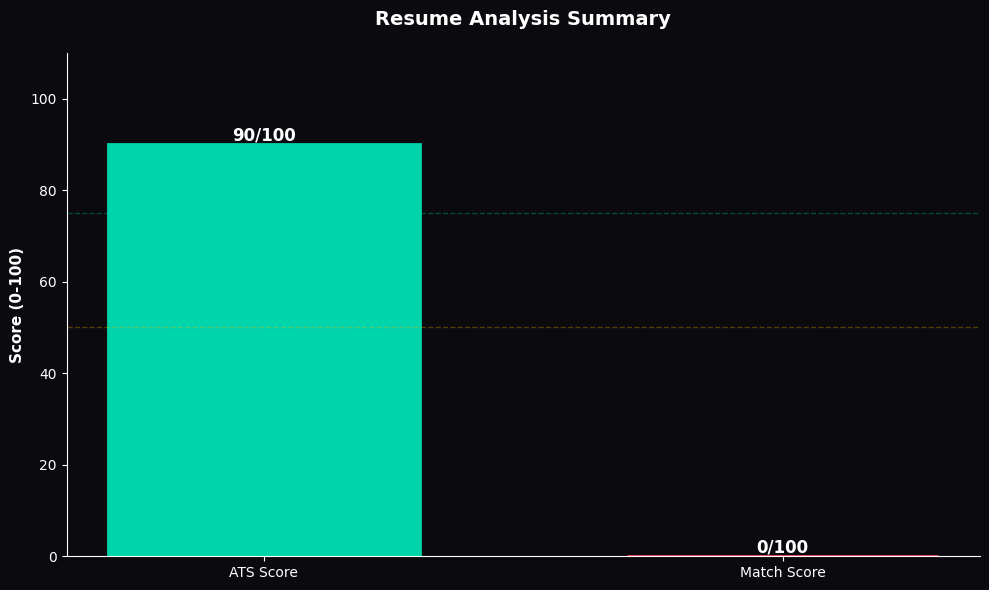
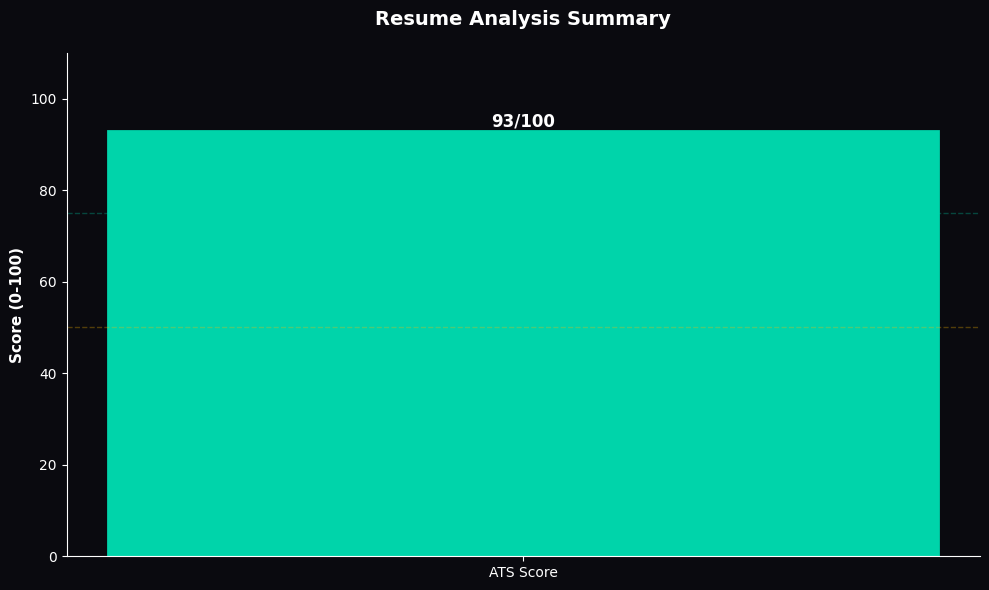
Updated the UI

diff --git a/app/static/css/style.css b/app/static/css/style.css
@@ -47,7 +47,9 @@
 html { scroll-behavior: smooth; }
 
 body {
-    background: var(--bg);
+    /* Use the base dark background with a very subtle vignette on the right
+       to match the reference image without strong teal/green overlays. */
+    background: radial-gradient(circle at 82% 8%, rgba(32, 46, 58, 0.06), transparent 22%), var(--bg);
     color: var(--text);
     font-family: var(--font-body);
     font-size: 15px;
@@ -95,12 +97,24 @@ body {
 .navbar__actions {
     display: flex;
     align-items: center;
-    gap: 0.9rem;
+    gap: 1rem;
+}
+
+.navbar__theme {
+    display: inline-flex;
+    align-items: center;
+    justify-content: center;
+    width: 22px;
+    height: 22px;
+    margin-right: 0.5rem;
+    color: #5f8ff2;
+    font-size: 0.95rem;
+    line-height: 1;
 }
 
 .navbar__link {
     text-decoration: none;
-    font-size: 0.85rem;
+    font-size: 0.95rem;
     font-weight: 500;
     color: var(--text-muted);
     transition: color 0.2s;
@@ -109,12 +123,13 @@ body {
 .navbar__link:hover { color: var(--text); }
 
 .navbar__user {
-    font-size: 0.85rem;
+    font-size: 0.95rem;
     font-weight: 500;
     color: var(--text-faint);
     border: 1px solid var(--border-light);
     border-radius: 999px;
     padding: 0.18rem 0.55rem;
+    margin-left: auto;
 }
 
 @media (max-width: 680px) {
@@ -122,7 +137,7 @@ body {
         padding: 0 1rem;
     }
     .navbar__actions {
-        gap: 0.55rem;
+        gap: 0.7rem;
     }
     .navbar__user {
         display: none;
@@ -131,10 +146,10 @@ body {
 
 .main-content {
     flex: 1;
-    max-width: 1080px;
+    max-width: 1200px;
     width: 100%;
     margin: 0 auto;
-    padding: 3rem 2rem 5rem;
+    padding: 1.5rem 2rem 5rem;
 }
 
 .footer {
@@ -146,86 +161,106 @@ body {
 }
 
 .hero {
-    text-align: center;
-    padding: 4rem 0 2.5rem;
-    max-width: 640px;
-    margin: 0 auto;
+    display: grid;
+    grid-template-columns: minmax(0, 1.05fr) minmax(360px, 0.95fr);
+    gap: 2rem;
+    align-items: center;
+    padding: 3.8rem 0 2.4rem;
+}
+
+.hero__copy {
+    text-align: left;
+}
+
+.hero__visual {
+    display: flex;
+    justify-content: center;
+    align-items: center;
 }
 
 .hero__badge {
-    display: inline-block;
-    font-size: 0.7rem;
+    display: inline-flex;
+    align-items: center;
+    font-size: 0.72rem;
     font-weight: 600;
     text-transform: uppercase;
-    letter-spacing: 0.13em;
-    color: var(--accent);
-    background: var(--accent-dim);
-    border: 1px solid var(--accent-border);
-    padding: 0.28rem 0.85rem;
+    letter-spacing: 0.16em;
+    color: #5f8ff2;
+    background: rgba(79, 142, 247, 0.08);
+    border: 1px solid rgba(79, 142, 247, 0.18);
+    padding: 0.4rem 0.95rem;
     border-radius: 999px;
-    margin-bottom: 1.4rem;
+    margin-bottom: 1.2rem;
 }
 
 .hero__title {
     font-family: var(--font-head);
-    font-size: clamp(1.9rem, 4.5vw, 2.8rem);
+    font-size: clamp(2.15rem, 3.8vw, 3.7rem);
     font-weight: 800;
     color: var(--text);
-    line-height: 1.15;
-    letter-spacing: -0.025em;
+    line-height: 1.02;
+    letter-spacing: -0.05em;
     margin-bottom: 1rem;
+    max-width: 13ch;
 }
 
-.hero__accent { color: var(--accent); }
+.hero__accent {
+    display: block;
+    color: var(--accent);
+    margin-top: 0.12em;
+}
 
 .hero__subtitle {
-    font-size: 0.97rem;
+    max-width: 40rem;
+    font-size: 0.98rem;
     color: var(--text-muted);
     line-height: 1.7;
-    margin-bottom: 2.2rem;
+    margin-bottom: 1.8rem;
 }
 
-.hero__stats {
+.hero__actions {
     display: flex;
     align-items: center;
-    justify-content: center;
-    gap: 1.5rem;
+    gap: 0.9rem;
     flex-wrap: wrap;
 }
 
-.stat { text-align: center; }
-
-.stat__number {
+.hero__image {
+    width: 100%;
+    max-width: 420px;
     display: block;
-    font-family: var(--font-head);
-    font-size: 1.35rem;
-    font-weight: 800;
-    color: var(--text);
-}
-
-.stat__label {
-    display: block;
-    font-size: 0.72rem;
-    color: var(--text-faint);
-    margin-top: 0.1rem;
-}
-
-.stat__divider {
-    width: 1px;
-    height: 28px;
-    background: var(--border-light);
+    border-radius: 22px;
+    box-shadow: 0 28px 60px rgba(0, 0, 0, 0.35);
+    border: 1px solid rgba(255,255,255,0.04);
 }
 
 .upload-section {
     display: grid;
-    grid-template-columns: 1fr 320px;
+    grid-template-columns: minmax(0, 1.35fr) minmax(280px, 0.8fr);
     gap: 1.8rem;
     align-items: start;
-    margin-top: 0.5rem;
+    margin-top: 0.6rem;
 }
 
 @media (max-width: 780px) {
+    .hero,
     .upload-section { grid-template-columns: 1fr; }
+
+    .hero__copy {
+        text-align: center;
+    }
+
+    .hero__title {
+        max-width: none;
+    }
+
+    .hero__actions {
+        justify-content: center;
+    }
+
+    .hero__image {
+        max-width: 100%;
+    }
 }
 
 .upload-card {

diff --git a/app/templates/index.html b/app/templates/index.html
@@ -3,35 +3,33 @@
 
 {% block content %}
 
-<section class="hero">
-    <div class="hero__badge">AI-Powered · Free · Instant Results</div>
-    <h1 class="hero__title">
-        Know exactly how your<br>
-        <span class="hero__accent">resume performs</span>
-    </h1>
-    <p class="hero__subtitle">
-        Upload your resume for an instant ATS score, skill extraction,
-        work experience detection, and optional job description matching.
-    </p>
-    <div class="hero__stats">
-        <div class="stat">
-            <span class="stat__number">100</span>
-            <span class="stat__label">ATS Score Points</span>
+<section class="hero hero--stitch">
+    <div class="hero__copy">
+        <div class="hero__badge">AI-powered · Instant · Private</div>
+        <h1 class="hero__title">
+            Land Your Dream Job with
+            <span class="hero__accent">AI-Powered Resume Analysis</span>
+        </h1>
+        <p class="hero__subtitle">
+            Optimize your resume for ATS, match key skills, and get consultant-grade
+            feedback in seconds.
+        </p>
+        <div class="hero__actions">
+            <a class="btn btn--primary" href="#upload">Analyze My Resume Now</a>
+            <a class="btn btn--outline" href="#sample">View Sample Report</a>
         </div>
-        <div class="stat__divider"></div>
-        <div class="stat">
-            <span class="stat__number">6</span>
-            <span class="stat__label">Scoring Sections</span>
-        </div>
-        <div class="stat__divider"></div>
-        <div class="stat">
-            <span class="stat__number">AI</span>
-            <span class="stat__label">HuggingFace Powered</span>
-        </div>
+    </div>
+
+    <div class="hero__visual" aria-hidden="true">
+        <img
+            src="https://lh3.googleusercontent.com/aida-public/AB6AXuAWqNYqH1pf0VqYtAAHDgasczRQtLnp0lygPrmdwEms3lLdAjK8tkUKlAJq90Vc-zs8BldwTJOHV6CeFilTirI7NQ0n1bz5ZLfnTc-x8vz353VYJZl63498gxDCWEyFTlvkSd-NC2R26u46RJQkkn8dbMgGn3rpv1ULnvv1kYIL1v-8k3-wFM1UDAtsmtspO_DP9THxpTSqCv4nTWkbE1zzAC2BYhwPkWdlkE3QxCtnT2O64-Y9DAUitiS709oLVe_8SjN5LojmIi7s"
+            alt="AI resume analysis dashboard"
+            class="hero__image"
+        />
     </div>
 </section>
 
-<section class="upload-section">
+<section class="upload-section" id="upload">
     <div class="upload-card">
 
         {% if error %}
@@ -57,7 +55,7 @@
                            required
                            class="file-drop__input"/>
                     <div id="fileDropContent">
-                        <div class="file-drop__icon">FILE</div>
+                        <div class="file-drop__icon">⬆</div>
                         <div class="file-drop__text">
                             Drop your resume here or
                             <span class="file-drop__browse">browse</span>
@@ -84,7 +82,7 @@
             <button type="submit"
                     class="btn btn--primary btn--full"
                     id="analyseBtn">
-                Analyse Resume 
+                Analyse Resume
             </button>
 
         </form>
@@ -142,7 +140,7 @@
     </aside>
 </section>
 
-<section class="account-section">
+<section class="account-section" id="sample">
     <div class="account-card">
         {% if session.get('user_id') %}
         <h2 class="account-card__title">Your scores are now being saved</h2>

diff --git a/app/templates/base.html b/app/templates/base.html
@@ -21,8 +21,8 @@
         <a href="/" class="navbar__link">Home</a>
         {% if session.get('user_id') %}
         <a href="/history" class="navbar__link">History</a>
-        <span class="navbar__user">{{ session.get('user_name', 'User') }}</span>
         <a href="/logout" class="navbar__link">Logout</a>
+        <span class="navbar__user">{{ session.get('user_name', 'User') }}</span>
         {% else %}
         <a href="/signin" class="navbar__link">Sign in</a>
         <a href="/signup" class="navbar__link">Create Account</a>